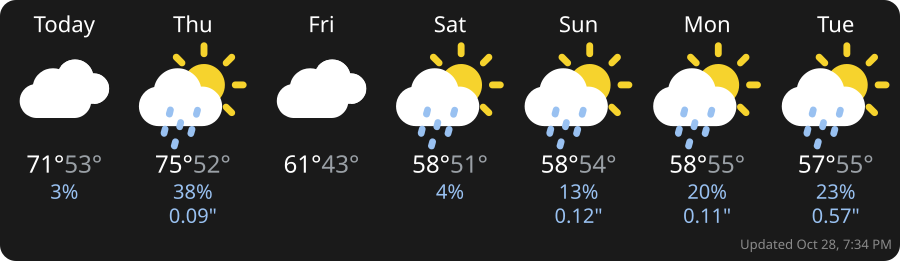
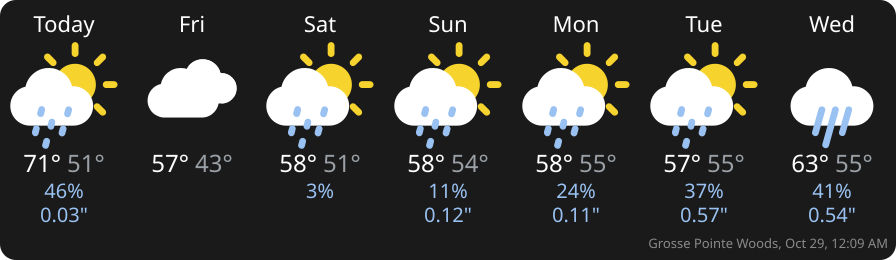
0.2.6: location + time in last-updated line, cache-busting manifest URLs, README header, roadmap

diff --git a/tools/build.py b/tools/build.py
@@ -41,3 +41,16 @@ def expand(src):
 os.makedirs(os.path.join(ROOT, "build"), exist_ok=True)
 open(os.path.join(ROOT, "build/WeatherTileInstance.expanded.groovy"), "w").write(expand(rd("apps/WeatherTileInstance.groovy")))
 print("built bundle.zip, bundle-library.zip, build/WeatherTileInstance.expanded.groovy")
+
+# Cache-busting: point every manifest location at ?v=<version> so hubs skip GitHub raw's stale cache
+import json
+mp = os.path.join(ROOT, "packageManifest.json")
+m = json.load(open(mp, encoding="utf-8"))
+v = m["version"]
+for sect in ("bundles", "apps", "drivers"):
+    for e in m.get(sect, []):
+        e["location"] = e["location"].split("?", 1)[0] + "?v=" + v
+        if sect == "bundles":
+            e["version"] = v
+open(mp, "w", encoding="utf-8").write(json.dumps(m, indent=2, ensure_ascii=True) + "\n")
+print("manifest locations set to ?v=" + v)

diff --git a/README.md b/README.md
@@ -1,12 +1,30 @@
-# hubitat-weather-tile
+# Weather Tile for Hubitat
 
-A standalone Hubitat Elevation app that shows a multi-day weather forecast strip on Hubitat dashboards. It is modelled on the forecast strip in [Rachio-Community](https://github.com/lnjustin/Rachio-Community), without any irrigation dependency, and with a choice of weather sources and display options.
+A multi-day weather forecast strip for Hubitat Elevation dashboards. Pick Open-Meteo (worldwide, no key), the US National Weather Service (no key) or a keyed provider. The forecast is drawn as a crisp SVG with colored or outline icons, highs and lows, and rain chance and amount.
 
-![preview](docs/preview.png)
+<p align="center"><img src="docs/preview.png" alt="Weather Tile preview: 7-day forecast strip" width="896"></p>
 
-The app serves the forecast as an SVG image from its own OAuth endpoint. The dashboard tile is a short `<img>` attribute (about 220 characters), well under Hubitat's 1,024-character limit. The forecast is fetched on a schedule and cached; viewing the dashboard never triggers a weather API call.
+- **Light on the hub:** the forecast is fetched on a schedule and cached, and opening a dashboard never calls a weather API. Errors back off and the last good forecast stays up, marked "(stale)".
+- **Fits a dashboard tile:** the tile attribute is a short `<img>` link (about 220 characters), served from the app's own endpoint on your LAN or through the Hubitat cloud.
+- **Configurable:** 1-7 days, units, dark or light theme, transparent background, fonts and colors, icon pack, and which values show.
+- **No dependencies:** built-in Hubitat APIs only.
 
-**Status:** 0.2.5. Built without being installed on a hub yet; see [Known limitations](#known-limitations). Requirements: [REQUIREMENTS.md](REQUIREMENTS.md).
+**Version:** 0.2.6 ([changelog](CHANGELOG.md)). Requirements and roadmap: [REQUIREMENTS.md](REQUIREMENTS.md).
+
+## Quick install
+1. **Hubitat Package Manager:** **Install** → **From a URL** → `https://raw.githubusercontent.com/cummingsrob/hubitat-weather-tile/main/packageManifest.json`. HPM installs everything and turns on OAuth.
+2. **Apps** → **+ Add User App** → **Weather Tile Manager** → **Done**, then **Add a weather tile**.
+3. On a dashboard, add a tile with that device, template **Attribute**, attribute **weatherTile**.
+
+Other ways to install (bundle zip, or file by file) are below.
+
+## Recent changes
+- **0.2.6:** last-updated line shows the location and time ("Grosse Pointe Woods, Oct 29, 12:07 AM"); manifest URLs carry `?v=<version>` to skip GitHub's cache.
+- **0.2.5:** HPM install and upgrade fixes (sandbox-safe response parsing, icon libraries the hub can parse), robust JSON handling for NWS.
+- **0.2.0:** icons moved into separate Hubitat libraries so more packs can be added.
+- **0.1.0:** first release.
+
+Full history: [CHANGELOG.md](CHANGELOG.md).
 
 ## Pieces
 | File | Type | Purpose |
@@ -22,7 +40,7 @@ The app serves the forecast as an SVG image from its own OAuth endpoint. The das
 No external libraries; only built-in Hubitat APIs. The library must be on the hub before the instance app is saved.
 
 ## Install option A: Hubitat Package Manager (recommended)
-HPM → **Install** → **From a URL** → `https://raw.githubusercontent.com/cummingsrob/hubitat-weather-tile/main/packageManifest.json`. HPM installs the library bundle, the driver and both apps, and enables OAuth for the instance app. Then go to step 5 below. (Not yet submitted to the HPM master list.)
+HPM → **Install** → **From a URL** → `https://raw.githubusercontent.com/cummingsrob/hubitat-weather-tile/main/packageManifest.json`. HPM installs the library bundle, the driver and both apps, and enables OAuth for the instance app. Then go to step 5 below.
 
 ## Install option B: bundle
 1. **Developer tools → Bundles → Import ZIP** → URL `https://raw.githubusercontent.com/cummingsrob/hubitat-weather-tile/main/bundle.zip` (or download and upload it). This installs the library, driver and both apps.
@@ -54,7 +72,7 @@ Create a new library (for example `cummingsrob.WeatherTileIconsMeteocons`) with 
 - **Theme:** dark background with light icons (default) or light. Optional transparent background, corner radius, font family, font size, and per-color overrides.
 - **Icon pack:** Rob's colored set (default) or outline.
 - **Show/hide:** high/low, rain %, rain amount, hide zero values, day-label style.
-- **Last updated:** tiny line, default `'Updated' MMM d, h:mm a` → "Updated Oct 28, 5:40 PM" (hub time zone).
+- **Last updated:** tiny line, location then time, e.g. "Grosse Pointe Woods, Oct 29, 12:07 AM" (hub time zone). The location is the tile's label, or a place name looked up once from latitude/longitude (NWS in the US, BigDataCloud elsewhere), or the hub name. Time format setting (default `MMM d, h:mm a`); the location prefix can be turned off.
 - **Tile URL:** local (LAN) or cloud (remote dashboards).
 - Buttons: **Refresh forecast now**, **Regenerate access token** (updates the tile attribute).
 
@@ -64,13 +82,12 @@ Create a new library (for example `cummingsrob.WeatherTileIconsMeteocons`) with 
 Debug: `<tile URL base>/forecast.json?access_token=...` returns the cached forecast.
 
 ## Known limitations
-- Not yet run on a real hub. Verified only by compiling with Groovy 2.4 and a local harness that stubs Hubitat APIs and calls the real Open-Meteo and NWS APIs.
 - NWS has no daily precipitation amount, and after about 6 PM "today" has only an overnight low.
 - The keyed provider only understands the OpenWeatherMap One Call `daily` format. Tomorrow.io and others need their own normalizer.
 - The rendered SVG is cached in memory and rebuilt from saved forecast data after a hub reboot.
 - Extra fields (current conditions, wind, humidity, sunrise/sunset, alerts) are not implemented yet (v2).
-- Bundle import and HPM library install are untested on a hub. HPM only tracks the library through the bundle; updating the library means rebuilding the zips (`python3 tools/build.py`).
-- Animated icon packs (Meteocons and others) are not included.
+- HPM tracks the icon libraries through the library bundle; changing a library means rebuilding the zips (`python3 tools/build.py`).
+- Animated icon packs, a monochrome pack and night icons are not included yet; see Next up in [REQUIREMENTS.md](REQUIREMENTS.md#next-up-robs-to-dos).
 
 ## Credits and licenses
 - Code: Apache-2.0 ([LICENSE](LICENSE), [NOTICE](NOTICE)). Portions adapted from Rachio-Community, © 2018 Anthony Santilli, © 2024 lnjustin, Apache-2.0.

diff --git a/REQUIREMENTS.md b/REQUIREMENTS.md
@@ -36,7 +36,7 @@ Status: **approved; v0.1.0 implemented (2026-10-28)**. See README for what is an
 - Colors (text, highs/lows, rain, background, icon tint), font family/size, background transparent/solid, corner radius.
 - Show/hide rain % and rain amount; hide zero values.
 - Day labels: weekday short/long, "Today"/"Tomorrow", date format.
-- Last-updated: show/hide; default format `Updated MMM d, h:mm a` (e.g. "Updated Oct 28, 5:40 PM"), hub time zone, rendered tiny.
+- Last-updated: show/hide; location then time, e.g. "Grosse Pointe Woods, Oct 29, 12:07 AM" (hub time zone), rendered tiny. Location = the tile's location label, else a place name looked up once from latitude/longitude (NWS points `relativeLocation` in the US, BigDataCloud elsewhere) and cached, else the hub name. Time format setting default `MMM d, h:mm a`; location prefix can be turned off.
 - Endpoint: local vs cloud URL for the tile attribute.
 - Logging level.
 
@@ -80,7 +80,7 @@ Status: **approved; v0.1.0 implemented (2026-10-28)**. See README for what is an
 8. **Extra fields** (current conditions, wind, humidity, sunrise/sunset, alerts): optional toggles, **off by default**; v2 candidates.
 9. **Look:** selectable icon packs and dark/light mode (see §12). Default colors need not match the Home Restyle dashboard.
 10. **Distribution:** Hubitat Package Manager once stable (later milestone).
-11. **Last updated:** shown on the tile (format is a setting, hub time zone) and exposed as an attribute. Default format like **"Updated Oct 28, 5:40 PM"**, rendered **tiny** (small font, low emphasis).
+11. **Last updated:** shown on the tile (format is a setting, hub time zone) and exposed as an attribute. Default since 0.2.6: **"Grosse Pointe Woods, Oct 29, 12:07 AM"** (location, then time; no "Updated" word), rendered **tiny** (small font, low emphasis).
 12. **Icon license:** Rob has no preference. Because his icons are modified from erikflowers/weather-icons (SIL OFL 1.1), they ship under **OFL 1.1 with attribution** (required for derivatives); no reserved font name used. Repo code stays **Apache-2.0**.
 13. **Attributes:** §11 list approved as a starting point; can be edited later.
 14. **Defaults:** theme = **dark background, light icons**; icon pack = **Rob's colored set**. SVG source: the inline SVG definitions in lnjustin/Rachio-Community code (to be extracted at build time; not extracted yet), or files Rob provides.
@@ -121,3 +121,10 @@ Candidates (licenses verified 2026-10-28):
 
 ## 13. Remaining open questions
 None at this time.
+
+## Next up (Rob's to-dos)
+- **Rename icon packs** to credit Rob for both sets: Rob's filled set and Rob's outline set, each modified from erikflowers/weather-icons.
+- **Monochrome pack** built from the erikflowers font files.
+- **More open-source packs as optional libraries:** Meteocons (MIT), Makin-Things weather-icons (MIT), Tabler Icons (MIT), Lucide (ISC), amCharts animated weather icons (CC BY 4.0, attribution required).
+- **Animated variants** with an on/off setting.
+- **Night icons for today's slot only:** before sunrise or after sunset (from sunrise/sunset times; NWS "Tonight" period), show the night icon for today. Future days always use daytime icons.

diff --git a/CHANGELOG.md b/CHANGELOG.md
@@ -1,5 +1,17 @@
 # Changelog
 
+## Next up
+- Rename icon packs to credit Rob for both the filled and outline sets (modified from erikflowers/weather-icons).
+- Monochrome pack from the erikflowers font files.
+- Optional pack libraries: Meteocons (MIT), Makin-Things (MIT), Tabler (MIT), Lucide (ISC), amCharts (CC BY 4.0).
+- Animated icon variants with an on/off setting.
+- Night icons for today's slot only (before sunrise / after sunset; NWS "Tonight"); future days stay daytime.
+
+## 0.2.6 - 2026-10-29
+- Last-updated line is now location then time, e.g. "Grosse Pointe Woods, Oct 29, 12:07 AM" (no "Updated" word). Location = the tile's location label, else a place name reverse-geocoded once from latitude/longitude (NWS points `relativeLocation` in the US, BigDataCloud's free client endpoint elsewhere) and cached in state, else the hub name; long names are shortened. New setting to turn the location prefix off; the time-format default is `MMM d, h:mm a`, and tiles still on the old default switch to the new one automatically. The `locationLabel` attribute uses the same name.
+- `packageManifest.json` locations carry `?v=<version>` so hubs fetch the new files instead of GitHub raw's cached copies; `tools/build.py` writes these from the manifest version.
+- README: new header, quick install and recent changes; crisp 2x preview image.
+
 ## 0.2.5 - 2026-10-28
 - Fix HPM upgrade failure "Expression [ClassExpression] is not allowed: java.io.Reader": `respJson()` no longer references java.io or java.util.zip classes. It handles Map/List and String bodies directly, anything with `getText()` by duck typing, and bytes via `new String(data, "UTF-8")`; gzip handling dropped (the hub decompresses).
 
